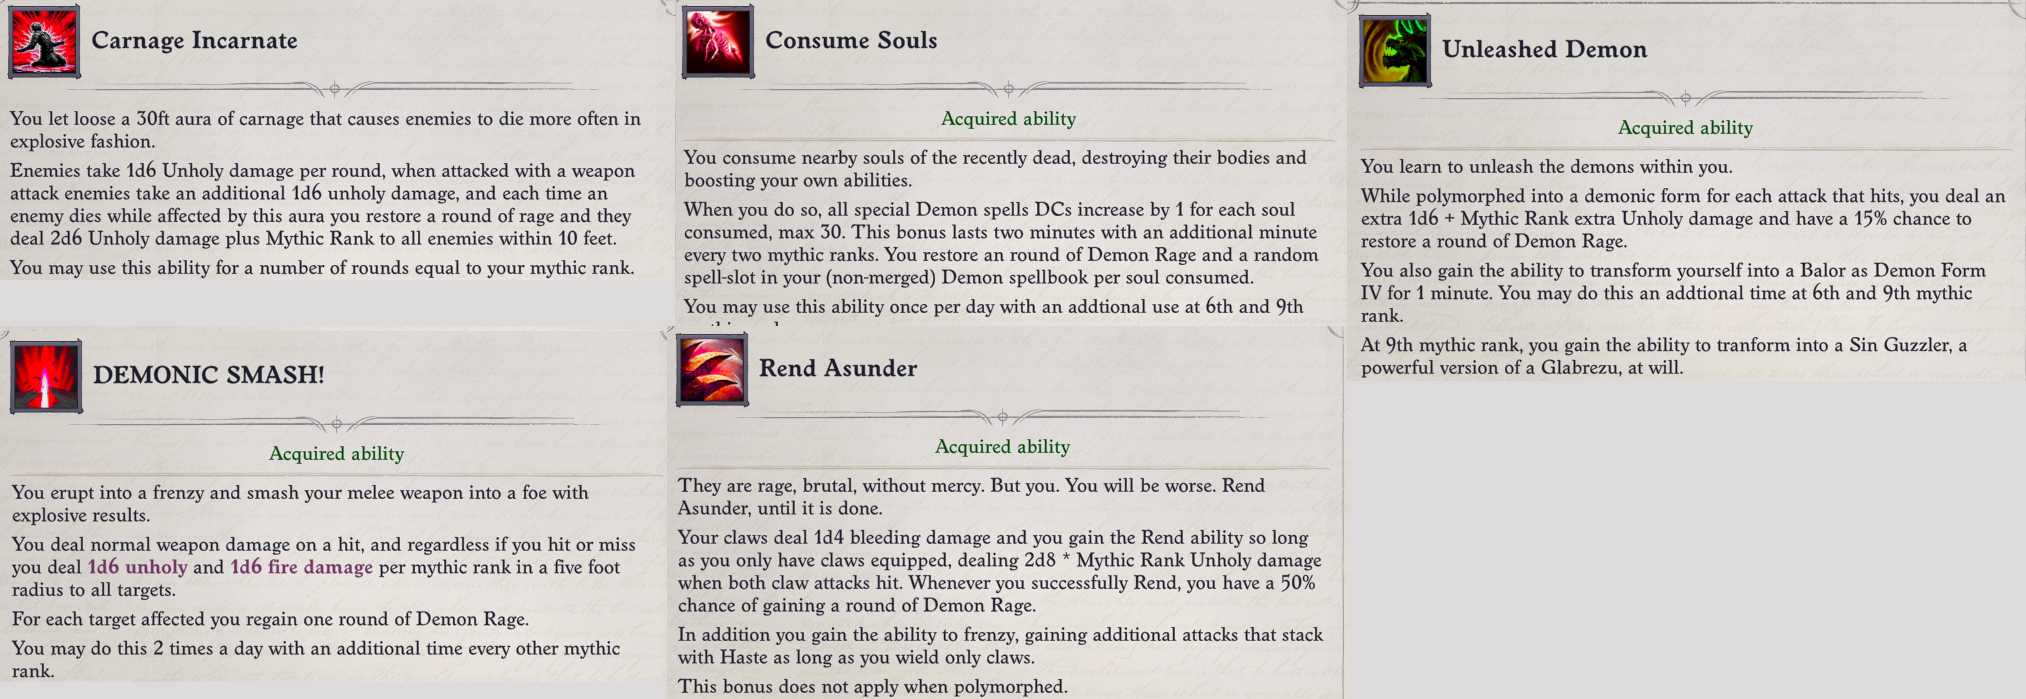
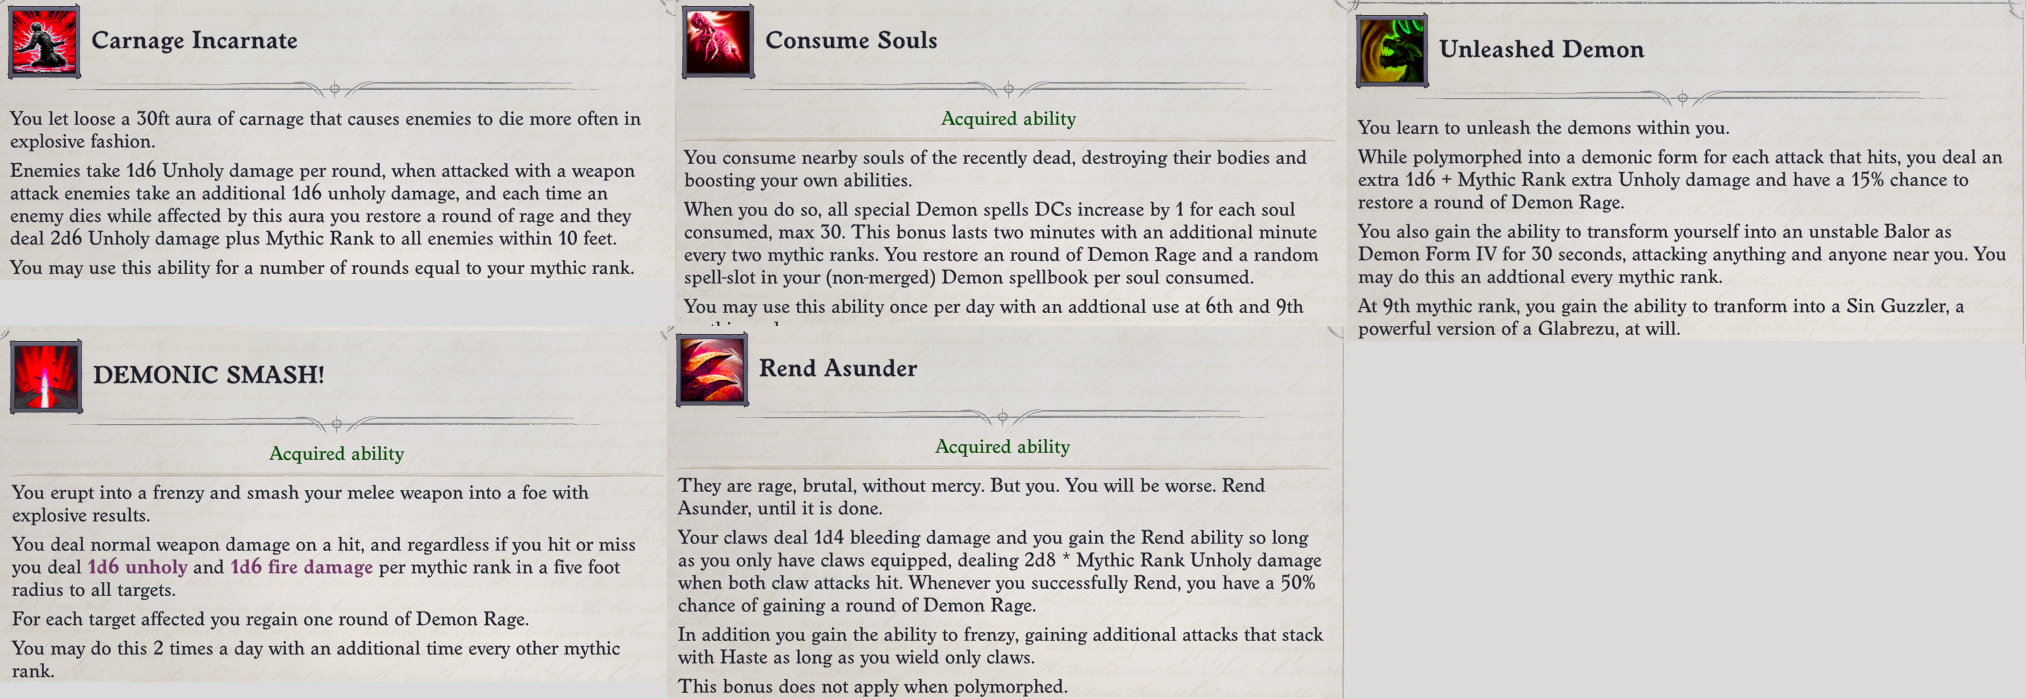
1.1.2

diff --git a/NewFeatures/DemonPolymorph.cs b/NewFeatures/DemonPolymorph.cs
@@ -28,6 +28,7 @@ using Kingmaker.UnitLogic.Buffs;
 using Kingmaker.Blueprints.Classes.Prerequisites;
 using Kingmaker.Designers.Mechanics.Buffs;
 using System.Collections.Generic;
+using System.Linq;
 
 namespace WOTR_PATH_OF_RAGE.NewFeatures
 {
@@ -64,19 +65,35 @@ namespace WOTR_PATH_OF_RAGE.NewFeatures
             var demonicFormIVBalor = BlueprintTool.Get<BlueprintAbility>("0258a875670fa134590c6ffdc23da2cf");
             var DemonicFormIIIGlabrezu = BlueprintTool.Get<BlueprintAbility>("0258a875670fa134590c6ffdc23da2cf");
 
+
+            var unstableDemonicFormIVBalorBuffGuild = new BlueprintGuid(new Guid("70c2561e-9fa9-4633-930c-815b03f90f4f"));
+
+            var unstableDemonicFormIVBalorBuff = Helpers.CreateCopy(demonicFormIVBalorBuff, bp =>
+            {
+                bp.AssetGuid = unstableDemonicFormIVBalorBuffGuild;
+                bp.name = "Unstable Balor Transformation";
+            });
+
+            unstableDemonicFormIVBalorBuff.AddComponent<AddCondition>(c =>
+            {
+                c.Condition = Kingmaker.UnitLogic.UnitCondition.AttackNearest;
+            });
+
+            Helpers.AddBlueprint(unstableDemonicFormIVBalorBuff, unstableDemonicFormIVBalorBuffGuild);
+
             var demonBalorFormGuid = new BlueprintGuid(new Guid("e30768ff-138f-4ab5-b947-03df2aa72a6a"));
 
             var demonBalorForm = Helpers.CreateCopy(demonicFormIVBalor, bp =>
             {
                 bp.AssetGuid = demonBalorFormGuid;
-                bp.name = "Balor Transformation";
+                bp.name = "Unstable Balor Transformation";
             });
 
             demonBalorForm.RemoveComponents<ContextRankConfig>();
 
             var demonBalorFormContextActionApplyBuff = (ContextActionApplyBuff)demonBalorForm.GetComponent<AbilityEffectRunAction>().Actions.Actions[1];
             demonBalorFormContextActionApplyBuff.DurationValue = null;
-            demonBalorFormContextActionApplyBuff.DurationSeconds = 60;
+            demonBalorFormContextActionApplyBuff.DurationSeconds = 30;
             demonBalorFormContextActionApplyBuff.UseDurationSeconds = true;
 
             demonBalorForm.AddComponent<AbilityResourceLogic>(c =>
@@ -85,6 +102,15 @@ namespace WOTR_PATH_OF_RAGE.NewFeatures
                 c.m_IsSpendResource = true;
                 c.m_RequiredResource = demonPolyResource.ToReference<BlueprintAbilityResourceReference>();
             });
+
+            var demonBalorFormAbilityEffectRunAction = demonBalorForm.GetComponent<AbilityEffectRunAction>();
+
+            foreach(var v in demonBalorFormAbilityEffectRunAction.Actions.Actions.OfType<ContextActionApplyBuff>())
+            {
+                v.m_Buff = unstableDemonicFormIVBalorBuff.ToReference<BlueprintBuffReference>();
+            }
+
+            demonBalorForm.m_DisplayName = Helpers.CreateString(demonBalorForm + ".Name", "Unstable Balor Form");
 
             Helpers.AddBlueprint(demonBalorForm, demonBalorFormGuid);
 
@@ -203,7 +229,7 @@ namespace WOTR_PATH_OF_RAGE.NewFeatures
             demonPolymorphFeature.m_DisplayName = Helpers.CreateString(demonPolymorphFeature + ".Name", "Unleashed Demon");
             var demonPolymorphDescription = "You learn to unleash the demons within you.\n" +
                                             "While polymorphed into a demonic form for each attack that hits, you deal an extra 1d6 + Mythic Rank extra Unholy damage and have a 15% chance to restore a round of Demon Rage.\n" +
-                                            "You also gain the ability to transform yourself into a Balor as Demon Form IV for 1 minute. You may do this an addtional time at 6th and 9th mythic rank.\n" +
+                                            "You also gain the ability to transform yourself into an unstable Balor as Demon Form IV for 30 seconds, attacking anything and anyone near you. You may do this an addtional every mythic rank.\n" +
                                             "At 9th mythic rank, you gain the ability to tranform into a Sin Guzzler, a powerful version of a Glabrezu, at will.";
             demonPolymorphFeature.m_Description = Helpers.CreateString(demonPolymorphFeature + ".Description", demonPolymorphDescription);
 
@@ -238,7 +264,8 @@ namespace WOTR_PATH_OF_RAGE.NewFeatures
                                         demonicFormIIINalfeshneeBuff,
                                         demonicFormIINabasuBuff,
                                         demonicFormIIIGlabrezuBuff,
-                                        demonSinGuzzlerBuff
+                                        demonSinGuzzlerBuff,
+                                        unstableDemonicFormIVBalorBuff
                                 }
                             }
                 };

diff --git a/NewFeatures/SpecialResources.cs b/NewFeatures/SpecialResources.cs
@@ -123,7 +123,7 @@ namespace WOTR_PATH_OF_RAGE.NewFeatures
                     m_ArchetypesDiv = new BlueprintArchetypeReference[0],
                     IncreasedByLevelStartPlusDivStep = true,
                     StartingLevel = 1,
-                    LevelStep = 3,
+                    LevelStep = 1,
                     PerStepIncrease = 1,
                     StartingIncrease = 1
                 };

diff --git a/Spells/LegendaryProportions.cs b/Spells/LegendaryProportions.cs
@@ -38,7 +38,7 @@ namespace WOTR_PATH_OF_RAGE.Spells
                 if (Initialized) return;
                 Initialized = true;
 
-                Main.Log("Patching Blood Haze");
+                Main.Log("Patching Legendary Proportions");
                 PatchLegendaryProportions();
             }
             static void PatchLegendaryProportions()
